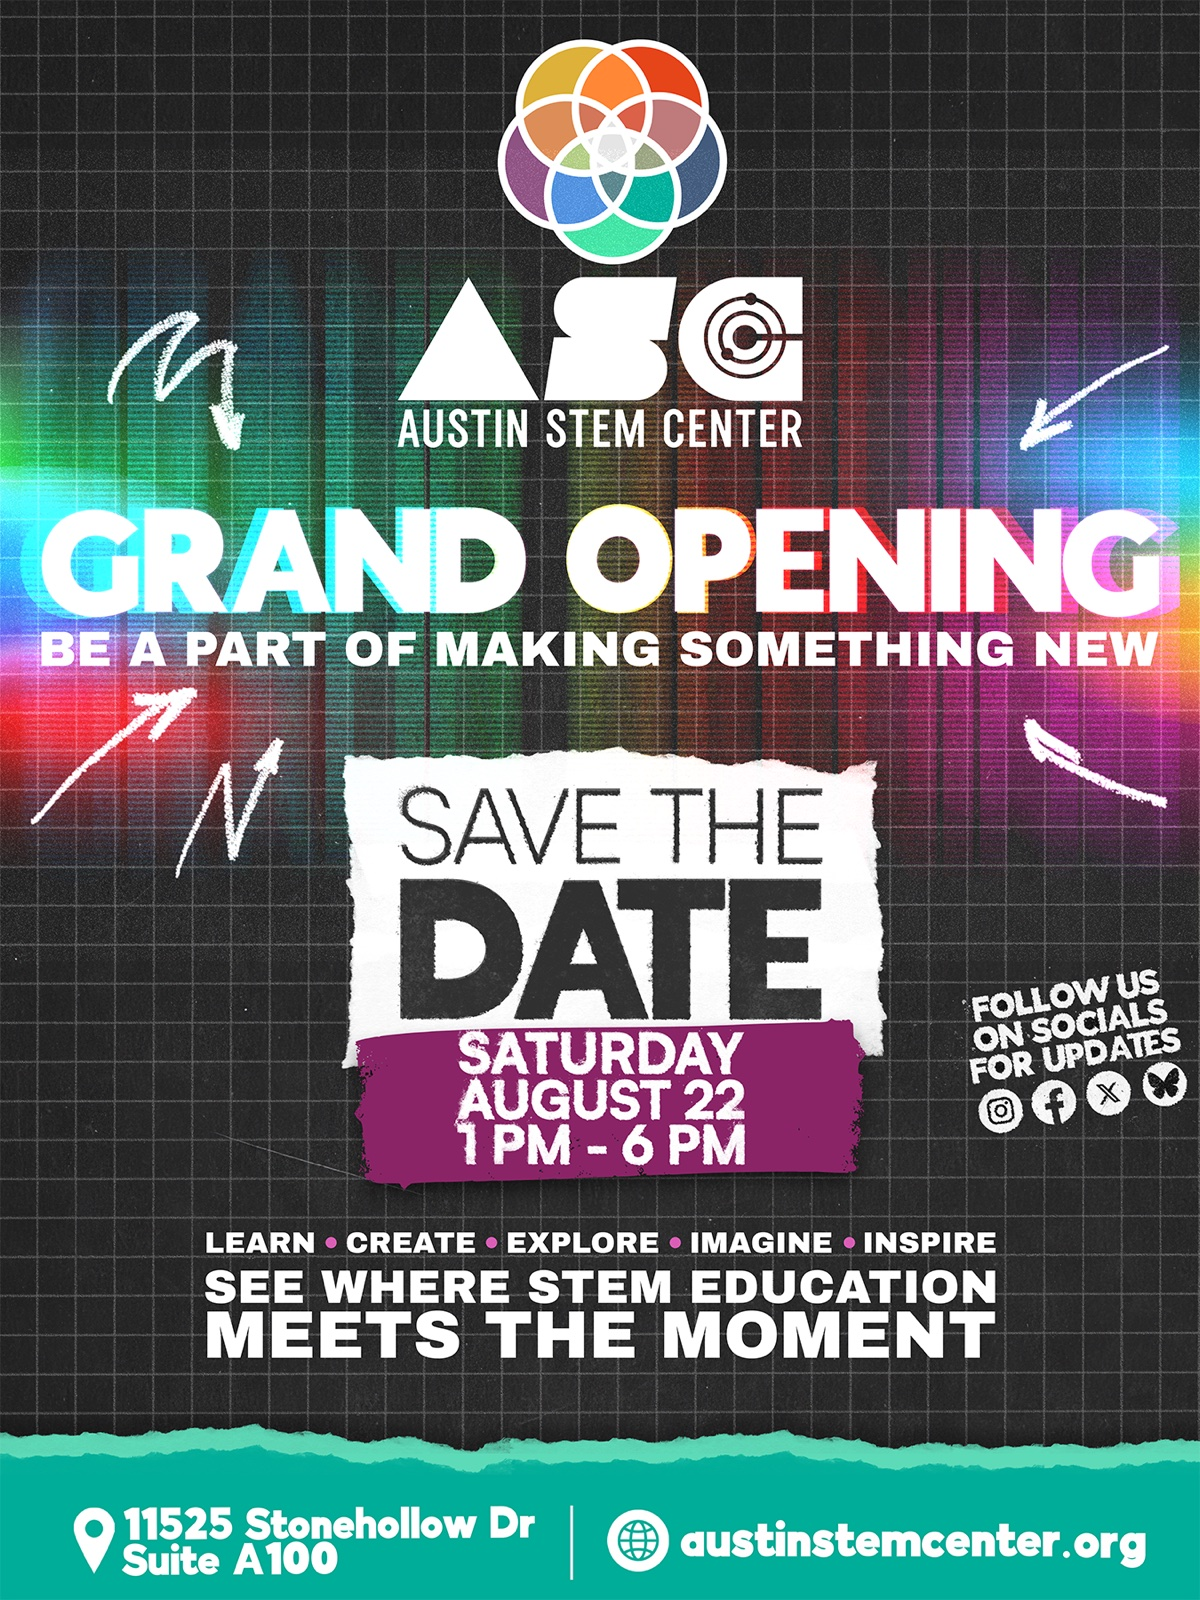
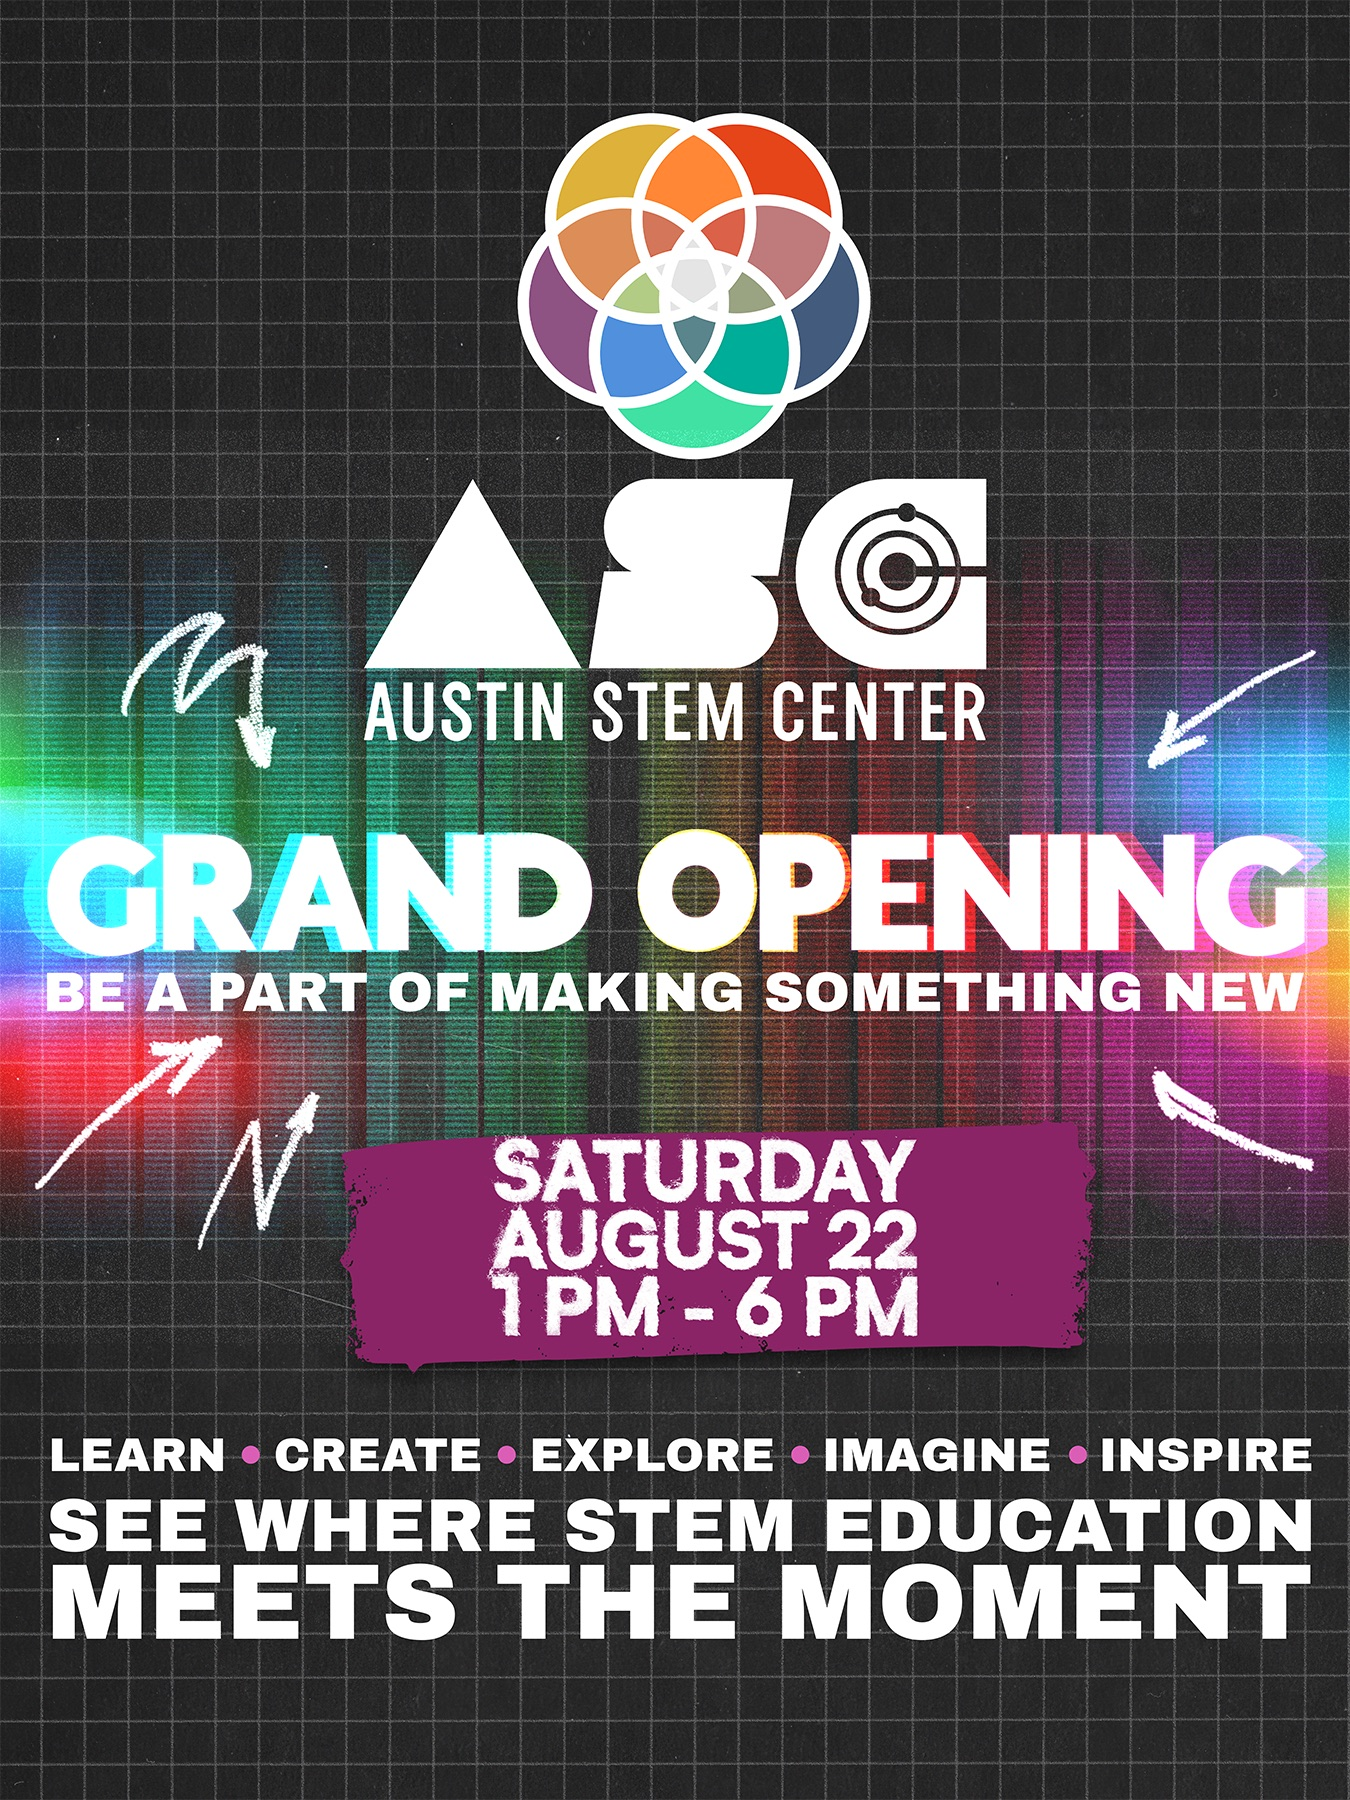
Grand Opening landing page added

diff --git a/app/page.tsx b/app/page.tsx
@@ -1,4 +1,4 @@
-import Image from "next/image";
+import Image, { getImageProps } from "next/image";
 import Link from "next/link";
 import { Gear } from "@/components/doodles";
 import { Annotation, SectionHeading } from "@/components/notebook";
@@ -29,81 +29,117 @@ const googleCalendarUrl =
       "Be a part of making something new. Tour all six spaces, meet the crew, and see where STEM education meets the moment. https://austinstemcenter.org",
   }).toString();
 
+const flyerAlt =
+  "Grand opening flyer — be a part of making something new. Saturday, August 22, 1–6 PM";
+
 export default function Home() {
+  /* art-directed flyer: landscape on md+ screens, portrait below */
+  const {
+    props: { srcSet: flyerWideSrcSet },
+  } = getImageProps({
+    src: "/images/grand-opening-flyer-wide.jpg",
+    alt: flyerAlt,
+    width: 1800,
+    height: 1350,
+    priority: true,
+    sizes: "992px",
+  });
+  const { props: flyerPortraitProps } = getImageProps({
+    src: "/images/grand-opening-flyer.jpg",
+    alt: flyerAlt,
+    width: 1350,
+    height: 1800,
+    priority: true,
+    sizes: "100vw",
+  });
+
   return (
     <>
-      {/* grand-opening hero — the flyer leads, taped in big on the left;
-          the event details ride alongside */}
-      <div className="grid grid-cols-[minmax(0,1.2fr)_minmax(0,1fr)] items-center gap-12 pt-[58px] max-md:grid-cols-1">
-        <a
-          href="/images/grand-opening-flyer.jpg"
-          target="_blank"
-          rel="noreferrer"
-          className="tape relative block w-full -rotate-[1.2deg] border border-ink/18 bg-card p-2.5 pb-1 shadow-[4px_5px_0_rgba(56,52,42,0.12)] transition-transform duration-200 ease-out hover:rotate-0"
-        >
-          <Image
-            src="/images/grand-opening-flyer.jpg"
-            alt="Grand opening save-the-date flyer — Saturday, August 22, 1–6 PM at 11525 Stonehollow Dr, Suite A100"
-            width={1200}
-            height={1600}
-            priority
-            className="w-full border border-ink/10"
-          />
-          <p className="py-1.5 text-center font-hand text-[17px] text-rust">
-            the official flyer — pass it along, bring a friend!
-          </p>
-        </a>
+      {/* grand-opening hero — one taped-in flyer, sized to fit the first
+          screen: masthead title on top, poster in the middle, and a compact
+          RSVP strip below a dashed perforation */}
+      <section className="pt-5">
+        <div className="tape-corners relative -rotate-[0.4deg] border border-ink/18 bg-card px-6 pt-6 pb-5 shadow-[4px_5px_0_rgba(56,52,42,0.12)] max-md:px-4">
+          <div className="text-center">
+            <p className="font-hand text-[18px] text-brand-blue">
+              save the date — you&rsquo;re invited!
+            </p>
+            <h1 className="mt-1 text-[clamp(24px,2.6vw,32px)] leading-[1.15] font-bold tracking-[-0.01em] text-balance">
+              Be a part of making <span className="hl">something new.</span>
+            </h1>
+          </div>
 
-        <div>
-          <p className="mb-2.5 font-hand text-[18px] text-brand-blue">
-            save the date — grand opening!
-          </p>
-          <h1 className="text-[clamp(30px,3.6vw,44px)] leading-[1.1] font-bold tracking-[-0.01em] text-balance">
-            Be a part of making <span className="hl">something new.</span>
-          </h1>
-          <p className="mt-4 max-w-[48ch] text-[17px] text-ink-soft">
-            We&rsquo;re opening the doors to Austin&rsquo;s new STEM innovation
-            hub. Tour all six spaces, meet the crew, and see where STEM
-            education meets the moment.
-          </p>
-          <p className="mt-6 text-[20px] font-bold">
-            Saturday, August 22 · 1–6 PM
-          </p>
-          <p className="mt-1 text-[16px] text-ink-soft">
-            {site.address.street} · {site.address.cityStateZip}
-          </p>
-          <div className="mt-7">
-            <Link
-              href="/rsvp"
-              className="inline-block rounded-[3px] bg-rust px-[26px] py-3.5 text-[16px] font-semibold text-paper shadow-[2px_2px_0_rgba(56,52,42,0.65)] transition-[transform,box-shadow] duration-100 active:translate-x-[2px] active:translate-y-[2px] active:shadow-none"
-            >
-              RSVP — save your spot →
-            </Link>
+          <a
+            href="/images/grand-opening-flyer.jpg"
+            target="_blank"
+            rel="noreferrer"
+            title="Open the full-size flyer"
+            className="mx-auto mt-4 block w-fit transition-opacity duration-150 hover:opacity-95"
+          >
+            <picture>
+              <source
+                media="(min-width: 768px)"
+                srcSet={flyerWideSrcSet}
+                sizes="992px"
+                width={1800}
+                height={1350}
+              />
+              {/* eslint-disable-next-line jsx-a11y/alt-text -- alt comes via getImageProps */}
+              <img
+                {...flyerPortraitProps}
+                className="mx-auto h-auto max-h-[max(calc(100svh-435px),300px)] w-auto max-w-full border border-ink/10"
+              />
+            </picture>
+          </a>
+
+          {/* the RSVP strip, below the perforation */}
+          <div className="mt-5 border-t border-dashed border-ink/30 pt-4 text-center">
+            <p className="text-[15.5px] leading-snug text-ink-soft">
+              Tour all six spaces, meet the crew, and see where STEM education
+              meets the moment.
+            </p>
+            <p className="mt-1 text-[14.5px] text-ink-soft">
+              {site.address.street} · {site.address.cityStateZip}
+            </p>
+            <div className="mt-3.5 flex flex-wrap items-center justify-center gap-4 max-md:flex-col max-md:items-stretch">
+              <p className="inline-block -rotate-[1.5deg] rounded-[3px] bg-ring-purple px-4 py-2 text-center text-[16.5px] font-bold text-paper shadow-[2px_2px_0_rgba(56,52,42,0.2)]">
+                Sat, August 22 · 1–6 PM
+              </p>
+              <Link
+                href="/rsvp"
+                className="inline-block rounded-[3px] bg-rust px-7 py-3.5 text-center text-[16.5px] font-semibold text-paper shadow-[2px_2px_0_rgba(56,52,42,0.65)] transition-[transform,box-shadow] duration-100 active:translate-x-[2px] active:translate-y-[2px] active:shadow-none"
+              >
+                RSVP — save your spot →
+              </Link>
+            </div>
+            <p className="mt-2.5 text-[14px] text-ink-soft">
+              <a
+                href={site.mapUrl}
+                target="_blank"
+                rel="noreferrer"
+                className="italic text-brand-blue underline decoration-brand-blue/50 underline-offset-[3px]"
+              >
+                get directions
+              </a>{" "}
+              ·{" "}
+              <a
+                href={googleCalendarUrl}
+                target="_blank"
+                rel="noreferrer"
+                className="italic text-brand-blue underline decoration-brand-blue/50 underline-offset-[3px]"
+              >
+                add to calendar
+              </a>
+            </p>
           </div>
-          <div className="mt-4 flex flex-wrap items-center gap-x-4 gap-y-3">
-            <a
-              href={googleCalendarUrl}
-              target="_blank"
-              rel="noreferrer"
-              className="inline-block rounded-[3px] border border-ink/25 bg-card px-[22px] py-3 text-[15px] shadow-[2px_2px_0_rgba(56,52,42,0.08)] transition-[transform,box-shadow] duration-100 active:translate-x-[2px] active:translate-y-[2px] active:shadow-none"
-            >
-              Add to Google Calendar
-            </a>
-            <a
-              href={site.mapUrl}
-              target="_blank"
-              rel="noreferrer"
-              className="inline-block rounded-[3px] border border-ink/25 bg-card px-[22px] py-3 text-[15px] shadow-[2px_2px_0_rgba(56,52,42,0.08)] transition-[transform,box-shadow] duration-100 active:translate-x-[2px] active:translate-y-[2px] active:shadow-none"
-            >
-              Get directions →
-            </a>
-          </div>
-          <br />
-          <Annotation className="mt-[26px]">
+        </div>
+
+        <div className="mt-4 text-center">
+          <Annotation>
             ↳ can&rsquo;t make it? <Link href="/contact" className="underline">drop us a line</Link> — we&rsquo;ll save you a tour.
           </Annotation>
         </div>
-      </div>
+      </section>
 
       {/* "who we are" — original tagline copy, parked until after the grand
           opening. To restore, uncomment and re-add PaperPlane to the doodles

diff --git a/app/globals.css b/app/globals.css
@@ -73,6 +73,27 @@ body {
   border: 1px solid rgba(56, 52, 42, 0.08);
 }
 
+/* diagonal tape across both top corners — for big taped-in pieces (the
+   grand-opening poster) where one small center strip looks undersized */
+.tape-corners::before,
+.tape-corners::after {
+  content: "";
+  position: absolute;
+  top: 12px;
+  width: 108px;
+  height: 26px;
+  background: rgba(221, 177, 58, 0.4);
+  border: 1px solid rgba(56, 52, 42, 0.08);
+}
+.tape-corners::before {
+  left: -30px;
+  transform: rotate(-45deg);
+}
+.tape-corners::after {
+  right: -30px;
+  transform: rotate(45deg);
+}
+
 /* hand-drawn highlighter behind key words — one stroke per marker color */
 .hl {
   background: linear-gradient(transparent 68%, rgba(221, 177, 58, 0.65) 68%);
